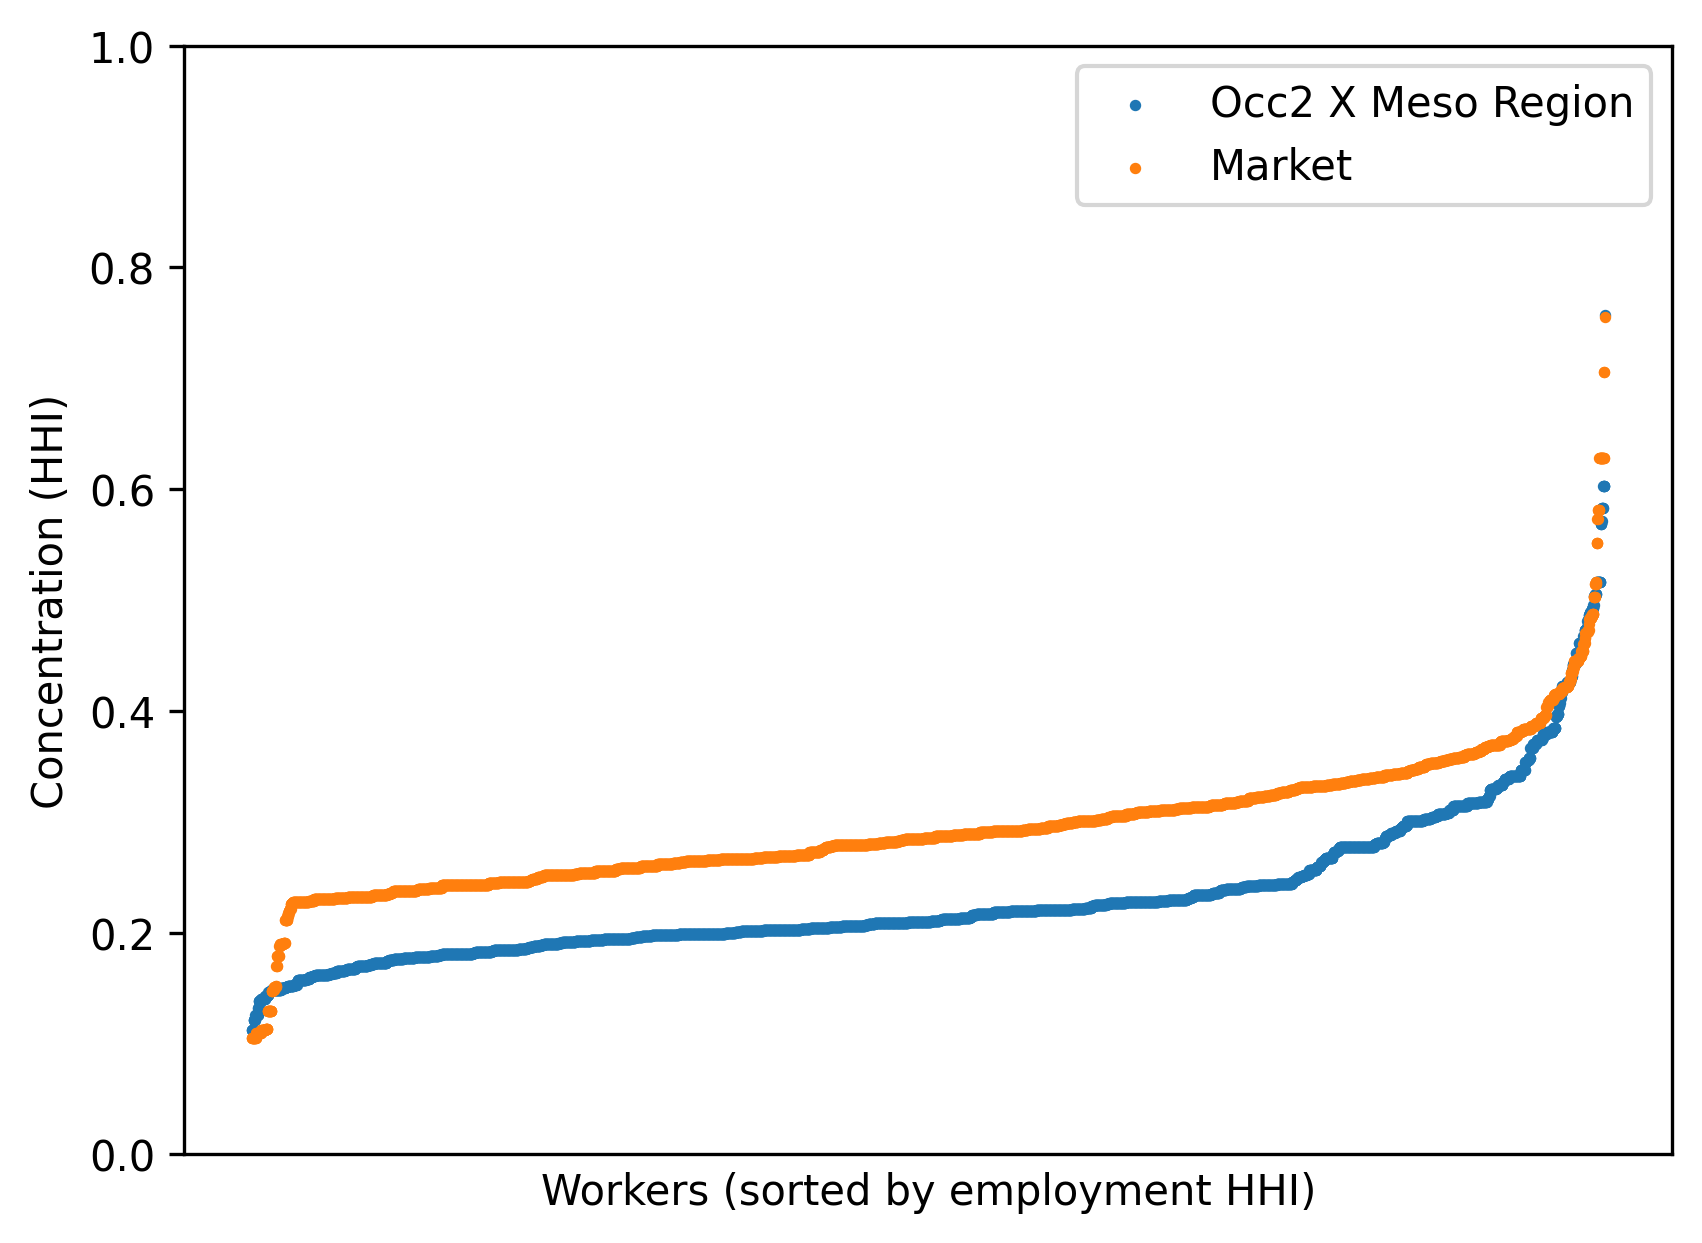
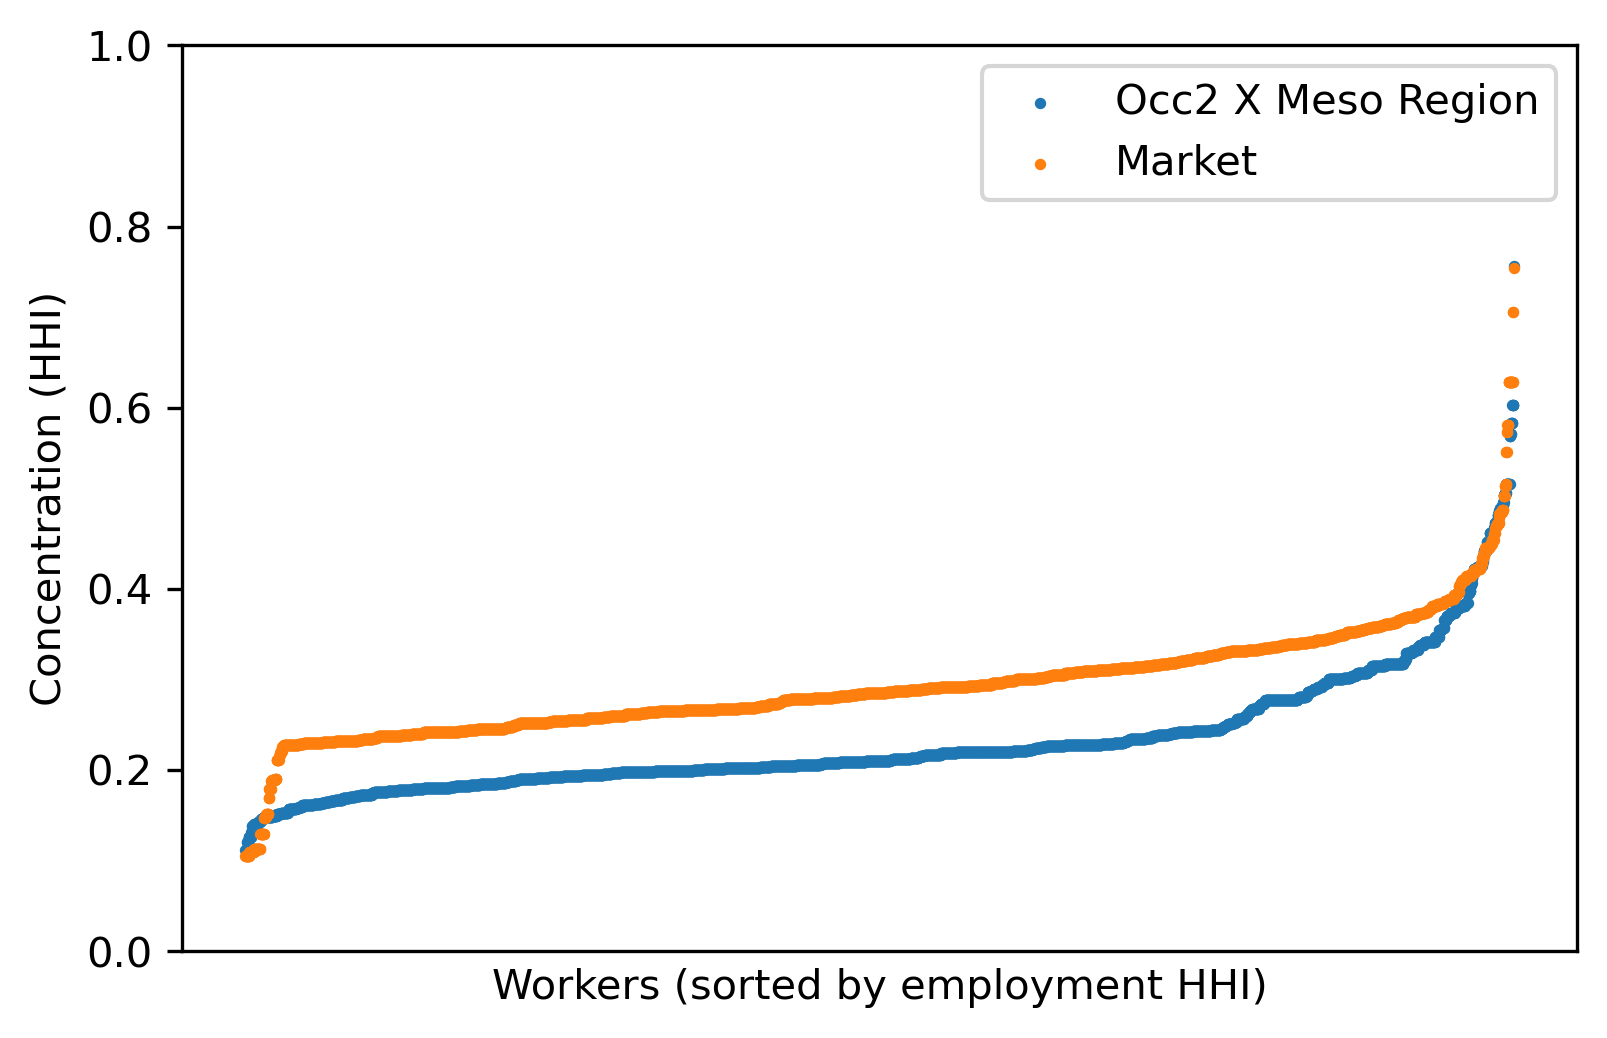
Updated concentration figures to deal with missing worker and job types

Changed region(s): [[0.0, 0.0308, 0.9956, 0.9865], [0.9334, 0.4624, 0.9645, 0.4933], [0.9334, 0.4008, 0.9645, 0.4316]]

diff --git a/Code/Modules/concentration_figures.py b/Code/Modules/concentration_figures.py
@@ -25,6 +25,9 @@ def concentration_figures(data, xvar, xvarlabel, yvarlist, yvarlabels, savefile,
     #xvarlabel = 'Workers'
     #yvarlist = ['sector_IBGE','gamma']
     #yvarlabels = {'sector_IBGE':'Sector','gamma':'Market'}
+    vars = [xvar] + yvarlist
+    mask = (data[vars] != -1).all(axis=1)
+    data = data.loc[mask]
     fig, ax = plt.subplots()
     savename_str = ''
     for yvar in yvarlist:
@@ -32,7 +35,7 @@ def concentration_figures(data, xvar, xvarlabel, yvarlist, yvarlabels, savefile,
         crosstab = pd.crosstab(index = data[xvar], columns = data[yvar])
         yvar_probabilities_by_xvar = crosstab.div(crosstab.sum(axis=1),axis=0).reset_index()
         yvar_probabilities_by_xvar['hhi'] = yvar_probabilities_by_xvar.drop(columns=xvar).pow(2).sum(axis=1)
-        xvar_counts = data[xvar].value_counts().reset_index().rename(columns={'index':xvar,xvar:'count'})
+        xvar_counts = data[xvar].value_counts().reset_index()
         # Normalize the counts by the minimum count and round to an integer. This avoids having so many points in the scatter plot that it won't print.
         xvar_counts['count'] = np.round(xvar_counts['count']/xvar_counts['count'].min())
         yvar_probabilities_by_xvar = yvar_probabilities_by_xvar.merge(xvar_counts, on=xvar)
